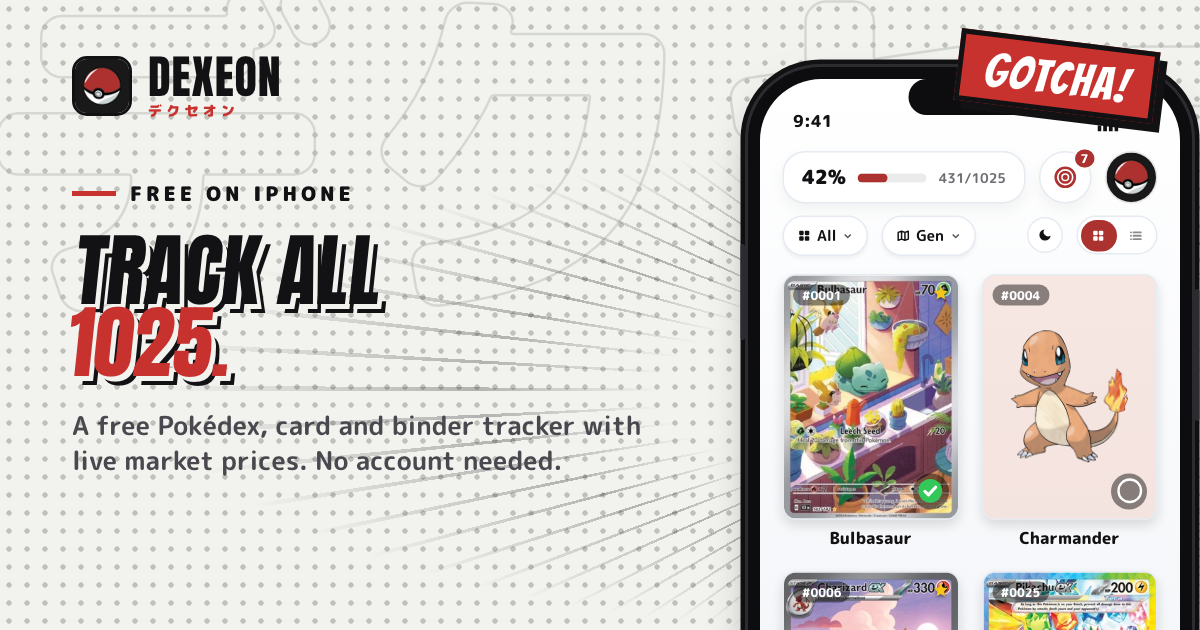
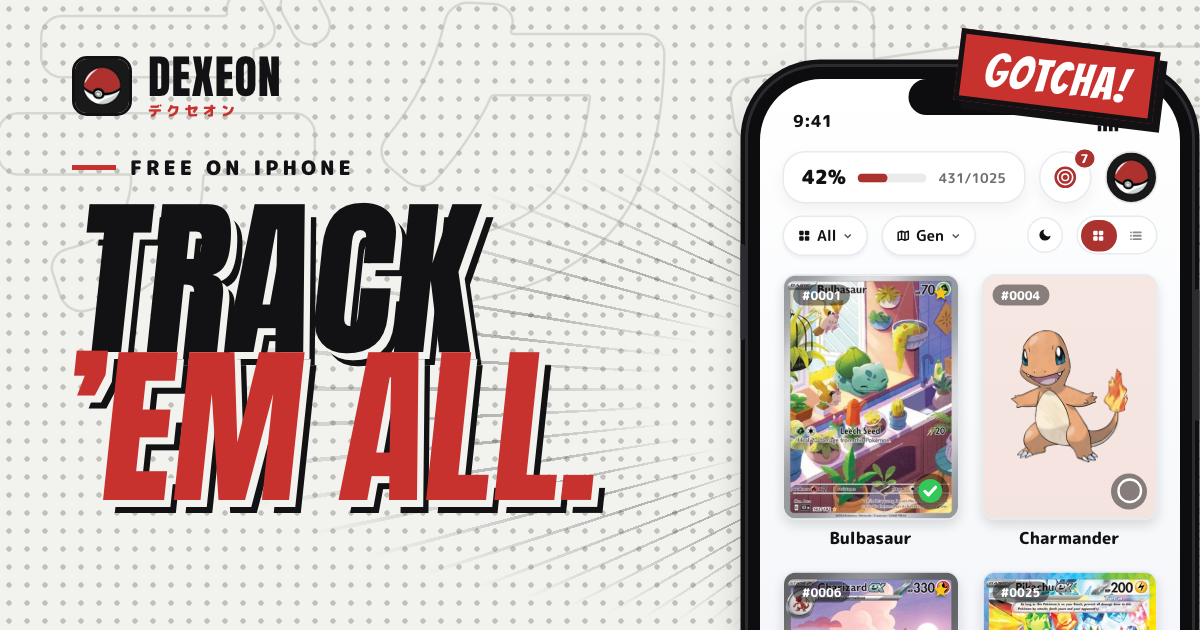
Redesign share image: big "Track 'Em All" headline, no body copy

Changed region(s): [[0.0617, 0.2413, 0.555, 0.8143]]

diff --git a/marketing/og.html b/marketing/og.html
@@ -236,6 +236,34 @@
   .swatch.l{background:#fff; color:#121114} .swatch.d{background:#0B0B0D; color:#F1F0EA}
   .swatch i{width:14px; height:14px; border-radius:50%; display:inline-block; background:currentColor}
 
+  /* ───────────── Japanese sets ───────────── */
+  .jp{padding:clamp(72px,9vw,120px) 0; border-top:3px solid var(--ink); background:var(--paper-2); position:relative; overflow:hidden}
+  .jp .wrap{position:relative; display:grid; grid-template-columns:minmax(0,.95fr) minmax(0,1.05fr); gap:clamp(28px,5vw,72px); align-items:center}
+  .jp .kana-big{font-family:var(--body); font-weight:900; font-size:clamp(44px,5.4vw,82px); line-height:1; white-space:nowrap; color:var(--red); letter-spacing:.04em; margin-top:14px; transform:skewX(-6deg); text-shadow:4px 4px 0 var(--paper-2), 7px 7px 0 var(--ink)}
+  .jp h2{font-size:clamp(40px,5vw,72px); margin-top:8px; transform:skewX(-6deg); text-shadow:3px 3px 0 var(--paper-2), 5px 5px 0 var(--ink)}
+  .jp .lede{margin-top:22px}
+  .jp-list{margin:24px 0 0; padding:0; list-style:none; display:grid; gap:10px}
+  .jp-list li{display:flex; gap:12px; align-items:flex-start; font-weight:700; font-size:15px}
+  .jp-list li::before{content:"JA"; flex:none; font-size:10px; font-weight:900; letter-spacing:.08em; padding:3px 7px; margin-top:3px; background:var(--red); color:#fff; border:2px solid var(--ink)}
+  .fan{position:relative; height:clamp(320px,36vw,460px)}
+  .fan figure{position:absolute; margin:0; width:clamp(140px,16vw,210px); transition:transform .3s ease}
+  .fan figure:hover{z-index:9; transform:translateY(-10px) rotate(0deg) !important}
+  .fan img{width:100%; border-radius:10px; border:3px solid var(--ink); box-shadow:var(--shadow-ink-sm); display:block}
+  .fan .ja{position:absolute; top:-10px; right:-10px; background:var(--red); color:#fff; font-size:11px; font-weight:900; letter-spacing:.08em; padding:4px 8px; border:2px solid var(--ink); box-shadow:2px 2px 0 var(--ink)}
+  .fan .c1{left:0%;  top:14%; transform:rotate(-12deg); z-index:1}
+  .fan .c2{left:17%; top:4%;  transform:rotate(-6deg);  z-index:2}
+  .fan .c3{left:35%; top:0%;  transform:rotate(-1deg);  z-index:3}
+  .fan .c4{left:53%; top:3%;  transform:rotate(5deg);   z-index:4}
+  .fan .c5{left:70%; top:12%; transform:rotate(11deg);  z-index:5}
+  .fan .c6{left:28%; top:36%; transform:rotate(-4deg);  z-index:6}
+  .jp .sfx{position:absolute; right:0; top:-18px; z-index:7; transform:rotate(7deg)}
+  @media (max-width:900px){
+    .jp .wrap{grid-template-columns:1fr}
+    .fan{height:min(72vw,420px); margin-top:20px}
+    .fan figure{width:min(30vw,170px)}
+    .fan .c6{left:34%; top:40%}
+  }
+
   /* ───────────── Binders (night spread) ───────────── */
   .night{
     background:var(--ink); color:var(--paper); position:relative;
@@ -508,14 +536,13 @@ html,body{width:1200px;height:630px}
 .brand img{width:60px;height:60px;border-radius:15px;border:3px solid var(--ink)}
 .brand b{font-family:var(--display);font-weight:400;font-size:46px;letter-spacing:.02em;line-height:1;display:block}
 .brand small{display:block;font-size:14px;font-weight:900;letter-spacing:.3em;color:var(--red);line-height:1;margin-top:4px}
-.head{left:72px;top:176px;width:680px;text-align:left}
+.head{left:72px;top:150px;width:680px;text-align:left}
 .head .eyebrow{font-size:20px;letter-spacing:.2em;gap:14px} .head .eyebrow::before{width:44px;height:5px}
-.head h1{font-size:80px;margin-top:24px;text-shadow:5px 5px 0 var(--paper),9px 9px 0 var(--ink)}
-.head p{font-size:26px;line-height:1.35;margin:30px 0 0;max-width:600px}
+.head h1{font-size:172px;margin-top:22px;line-height:.86;text-shadow:7px 7px 0 var(--paper),13px 13px 0 var(--ink)}
 .stage{left:745px;top:64px;transform:scale(1.5);transform-origin:top left}
 .speed{--cx:83%;--cy:62%;opacity:.28}
 .sfx{font-size:46px;padding:10px 22px 6px;border-width:5px;box-shadow:8px 8px 0 var(--ink)}
-</style></head><body><div class="shot"><div class="halft"></div><div class="kana-bg" aria-hidden="true">デクセオン</div><div class="brand"><img src="../assets/icon.png" alt=""><span><b>DEXEON</b><small>デクセオン</small></span></div><div class="head"><span class="eyebrow">Free on iPhone</span><h1>Track all<br><span class="red">1025.</span></h1><p>A free Pokédex, card and binder tracker with live market prices. No account needed.</p></div><div class="speed"></div><span class="sfx" style="right:44px;top:40px;transform:rotate(7deg)">GOTCHA!</span><div class="stage"><div class="phone" role="img" aria-label="Dexeon home screen showing collection progress, filters and a grid of Pokémon tiles with showcase cards">
+</style></head><body><div class="shot"><div class="halft"></div><div class="kana-bg" aria-hidden="true">デクセオン</div><div class="brand"><img src="../assets/icon.png" alt=""><span><b>DEXEON</b><small>デクセオン</small></span></div><div class="head"><span class="eyebrow">Free on iPhone</span><h1>Track<br><span class="red">’Em All.</span></h1></div><div class="speed"></div><span class="sfx" style="right:44px;top:40px;transform:rotate(7deg)">GOTCHA!</span><div class="stage"><div class="phone" role="img" aria-label="Dexeon home screen showing collection progress, filters and a grid of Pokémon tiles with showcase cards">
         <div class="island"></div>
         <div class="screen">
           <div class="status"><span>9:41</span><span class="r">

diff --git a/marketing/ipad-13-screen-1-pokedex.html b/marketing/ipad-13-screen-1-pokedex.html
@@ -236,6 +236,34 @@
   .swatch.l{background:#fff; color:#121114} .swatch.d{background:#0B0B0D; color:#F1F0EA}
   .swatch i{width:14px; height:14px; border-radius:50%; display:inline-block; background:currentColor}
 
+  /* ───────────── Japanese sets ───────────── */
+  .jp{padding:clamp(72px,9vw,120px) 0; border-top:3px solid var(--ink); background:var(--paper-2); position:relative; overflow:hidden}
+  .jp .wrap{position:relative; display:grid; grid-template-columns:minmax(0,.95fr) minmax(0,1.05fr); gap:clamp(28px,5vw,72px); align-items:center}
+  .jp .kana-big{font-family:var(--body); font-weight:900; font-size:clamp(44px,5.4vw,82px); line-height:1; white-space:nowrap; color:var(--red); letter-spacing:.04em; margin-top:14px; transform:skewX(-6deg); text-shadow:4px 4px 0 var(--paper-2), 7px 7px 0 var(--ink)}
+  .jp h2{font-size:clamp(40px,5vw,72px); margin-top:8px; transform:skewX(-6deg); text-shadow:3px 3px 0 var(--paper-2), 5px 5px 0 var(--ink)}
+  .jp .lede{margin-top:22px}
+  .jp-list{margin:24px 0 0; padding:0; list-style:none; display:grid; gap:10px}
+  .jp-list li{display:flex; gap:12px; align-items:flex-start; font-weight:700; font-size:15px}
+  .jp-list li::before{content:"JA"; flex:none; font-size:10px; font-weight:900; letter-spacing:.08em; padding:3px 7px; margin-top:3px; background:var(--red); color:#fff; border:2px solid var(--ink)}
+  .fan{position:relative; height:clamp(320px,36vw,460px)}
+  .fan figure{position:absolute; margin:0; width:clamp(140px,16vw,210px); transition:transform .3s ease}
+  .fan figure:hover{z-index:9; transform:translateY(-10px) rotate(0deg) !important}
+  .fan img{width:100%; border-radius:10px; border:3px solid var(--ink); box-shadow:var(--shadow-ink-sm); display:block}
+  .fan .ja{position:absolute; top:-10px; right:-10px; background:var(--red); color:#fff; font-size:11px; font-weight:900; letter-spacing:.08em; padding:4px 8px; border:2px solid var(--ink); box-shadow:2px 2px 0 var(--ink)}
+  .fan .c1{left:0%;  top:14%; transform:rotate(-12deg); z-index:1}
+  .fan .c2{left:17%; top:4%;  transform:rotate(-6deg);  z-index:2}
+  .fan .c3{left:35%; top:0%;  transform:rotate(-1deg);  z-index:3}
+  .fan .c4{left:53%; top:3%;  transform:rotate(5deg);   z-index:4}
+  .fan .c5{left:70%; top:12%; transform:rotate(11deg);  z-index:5}
+  .fan .c6{left:28%; top:36%; transform:rotate(-4deg);  z-index:6}
+  .jp .sfx{position:absolute; right:0; top:-18px; z-index:7; transform:rotate(7deg)}
+  @media (max-width:900px){
+    .jp .wrap{grid-template-columns:1fr}
+    .fan{height:min(72vw,420px); margin-top:20px}
+    .fan figure{width:min(30vw,170px)}
+    .fan .c6{left:34%; top:40%}
+  }
+
   /* ───────────── Binders (night spread) ───────────── */
   .night{
     background:var(--ink); color:var(--paper); position:relative;

diff --git a/marketing/ipad-13-screen-2-cards.html b/marketing/ipad-13-screen-2-cards.html
@@ -236,6 +236,34 @@
   .swatch.l{background:#fff; color:#121114} .swatch.d{background:#0B0B0D; color:#F1F0EA}
   .swatch i{width:14px; height:14px; border-radius:50%; display:inline-block; background:currentColor}
 
+  /* ───────────── Japanese sets ───────────── */
+  .jp{padding:clamp(72px,9vw,120px) 0; border-top:3px solid var(--ink); background:var(--paper-2); position:relative; overflow:hidden}
+  .jp .wrap{position:relative; display:grid; grid-template-columns:minmax(0,.95fr) minmax(0,1.05fr); gap:clamp(28px,5vw,72px); align-items:center}
+  .jp .kana-big{font-family:var(--body); font-weight:900; font-size:clamp(44px,5.4vw,82px); line-height:1; white-space:nowrap; color:var(--red); letter-spacing:.04em; margin-top:14px; transform:skewX(-6deg); text-shadow:4px 4px 0 var(--paper-2), 7px 7px 0 var(--ink)}
+  .jp h2{font-size:clamp(40px,5vw,72px); margin-top:8px; transform:skewX(-6deg); text-shadow:3px 3px 0 var(--paper-2), 5px 5px 0 var(--ink)}
+  .jp .lede{margin-top:22px}
+  .jp-list{margin:24px 0 0; padding:0; list-style:none; display:grid; gap:10px}
+  .jp-list li{display:flex; gap:12px; align-items:flex-start; font-weight:700; font-size:15px}
+  .jp-list li::before{content:"JA"; flex:none; font-size:10px; font-weight:900; letter-spacing:.08em; padding:3px 7px; margin-top:3px; background:var(--red); color:#fff; border:2px solid var(--ink)}
+  .fan{position:relative; height:clamp(320px,36vw,460px)}
+  .fan figure{position:absolute; margin:0; width:clamp(140px,16vw,210px); transition:transform .3s ease}
+  .fan figure:hover{z-index:9; transform:translateY(-10px) rotate(0deg) !important}
+  .fan img{width:100%; border-radius:10px; border:3px solid var(--ink); box-shadow:var(--shadow-ink-sm); display:block}
+  .fan .ja{position:absolute; top:-10px; right:-10px; background:var(--red); color:#fff; font-size:11px; font-weight:900; letter-spacing:.08em; padding:4px 8px; border:2px solid var(--ink); box-shadow:2px 2px 0 var(--ink)}
+  .fan .c1{left:0%;  top:14%; transform:rotate(-12deg); z-index:1}
+  .fan .c2{left:17%; top:4%;  transform:rotate(-6deg);  z-index:2}
+  .fan .c3{left:35%; top:0%;  transform:rotate(-1deg);  z-index:3}
+  .fan .c4{left:53%; top:3%;  transform:rotate(5deg);   z-index:4}
+  .fan .c5{left:70%; top:12%; transform:rotate(11deg);  z-index:5}
+  .fan .c6{left:28%; top:36%; transform:rotate(-4deg);  z-index:6}
+  .jp .sfx{position:absolute; right:0; top:-18px; z-index:7; transform:rotate(7deg)}
+  @media (max-width:900px){
+    .jp .wrap{grid-template-columns:1fr}
+    .fan{height:min(72vw,420px); margin-top:20px}
+    .fan figure{width:min(30vw,170px)}
+    .fan .c6{left:34%; top:40%}
+  }
+
   /* ───────────── Binders (night spread) ───────────── */
   .night{
     background:var(--ink); color:var(--paper); position:relative;

diff --git a/marketing/ipad-13-screen-3-binders.html b/marketing/ipad-13-screen-3-binders.html
@@ -236,6 +236,34 @@
   .swatch.l{background:#fff; color:#121114} .swatch.d{background:#0B0B0D; color:#F1F0EA}
   .swatch i{width:14px; height:14px; border-radius:50%; display:inline-block; background:currentColor}
 
+  /* ───────────── Japanese sets ───────────── */
+  .jp{padding:clamp(72px,9vw,120px) 0; border-top:3px solid var(--ink); background:var(--paper-2); position:relative; overflow:hidden}
+  .jp .wrap{position:relative; display:grid; grid-template-columns:minmax(0,.95fr) minmax(0,1.05fr); gap:clamp(28px,5vw,72px); align-items:center}
+  .jp .kana-big{font-family:var(--body); font-weight:900; font-size:clamp(44px,5.4vw,82px); line-height:1; white-space:nowrap; color:var(--red); letter-spacing:.04em; margin-top:14px; transform:skewX(-6deg); text-shadow:4px 4px 0 var(--paper-2), 7px 7px 0 var(--ink)}
+  .jp h2{font-size:clamp(40px,5vw,72px); margin-top:8px; transform:skewX(-6deg); text-shadow:3px 3px 0 var(--paper-2), 5px 5px 0 var(--ink)}
+  .jp .lede{margin-top:22px}
+  .jp-list{margin:24px 0 0; padding:0; list-style:none; display:grid; gap:10px}
+  .jp-list li{display:flex; gap:12px; align-items:flex-start; font-weight:700; font-size:15px}
+  .jp-list li::before{content:"JA"; flex:none; font-size:10px; font-weight:900; letter-spacing:.08em; padding:3px 7px; margin-top:3px; background:var(--red); color:#fff; border:2px solid var(--ink)}
+  .fan{position:relative; height:clamp(320px,36vw,460px)}
+  .fan figure{position:absolute; margin:0; width:clamp(140px,16vw,210px); transition:transform .3s ease}
+  .fan figure:hover{z-index:9; transform:translateY(-10px) rotate(0deg) !important}
+  .fan img{width:100%; border-radius:10px; border:3px solid var(--ink); box-shadow:var(--shadow-ink-sm); display:block}
+  .fan .ja{position:absolute; top:-10px; right:-10px; background:var(--red); color:#fff; font-size:11px; font-weight:900; letter-spacing:.08em; padding:4px 8px; border:2px solid var(--ink); box-shadow:2px 2px 0 var(--ink)}
+  .fan .c1{left:0%;  top:14%; transform:rotate(-12deg); z-index:1}
+  .fan .c2{left:17%; top:4%;  transform:rotate(-6deg);  z-index:2}
+  .fan .c3{left:35%; top:0%;  transform:rotate(-1deg);  z-index:3}
+  .fan .c4{left:53%; top:3%;  transform:rotate(5deg);   z-index:4}
+  .fan .c5{left:70%; top:12%; transform:rotate(11deg);  z-index:5}
+  .fan .c6{left:28%; top:36%; transform:rotate(-4deg);  z-index:6}
+  .jp .sfx{position:absolute; right:0; top:-18px; z-index:7; transform:rotate(7deg)}
+  @media (max-width:900px){
+    .jp .wrap{grid-template-columns:1fr}
+    .fan{height:min(72vw,420px); margin-top:20px}
+    .fan figure{width:min(30vw,170px)}
+    .fan .c6{left:34%; top:40%}
+  }
+
   /* ───────────── Binders (night spread) ───────────── */
   .night{
     background:var(--ink); color:var(--paper); position:relative;

diff --git a/marketing/iphone-6.5-screen-1-pokedex.html b/marketing/iphone-6.5-screen-1-pokedex.html
@@ -236,6 +236,34 @@
   .swatch.l{background:#fff; color:#121114} .swatch.d{background:#0B0B0D; color:#F1F0EA}
   .swatch i{width:14px; height:14px; border-radius:50%; display:inline-block; background:currentColor}
 
+  /* ───────────── Japanese sets ───────────── */
+  .jp{padding:clamp(72px,9vw,120px) 0; border-top:3px solid var(--ink); background:var(--paper-2); position:relative; overflow:hidden}
+  .jp .wrap{position:relative; display:grid; grid-template-columns:minmax(0,.95fr) minmax(0,1.05fr); gap:clamp(28px,5vw,72px); align-items:center}
+  .jp .kana-big{font-family:var(--body); font-weight:900; font-size:clamp(44px,5.4vw,82px); line-height:1; white-space:nowrap; color:var(--red); letter-spacing:.04em; margin-top:14px; transform:skewX(-6deg); text-shadow:4px 4px 0 var(--paper-2), 7px 7px 0 var(--ink)}
+  .jp h2{font-size:clamp(40px,5vw,72px); margin-top:8px; transform:skewX(-6deg); text-shadow:3px 3px 0 var(--paper-2), 5px 5px 0 var(--ink)}
+  .jp .lede{margin-top:22px}
+  .jp-list{margin:24px 0 0; padding:0; list-style:none; display:grid; gap:10px}
+  .jp-list li{display:flex; gap:12px; align-items:flex-start; font-weight:700; font-size:15px}
+  .jp-list li::before{content:"JA"; flex:none; font-size:10px; font-weight:900; letter-spacing:.08em; padding:3px 7px; margin-top:3px; background:var(--red); color:#fff; border:2px solid var(--ink)}
+  .fan{position:relative; height:clamp(320px,36vw,460px)}
+  .fan figure{position:absolute; margin:0; width:clamp(140px,16vw,210px); transition:transform .3s ease}
+  .fan figure:hover{z-index:9; transform:translateY(-10px) rotate(0deg) !important}
+  .fan img{width:100%; border-radius:10px; border:3px solid var(--ink); box-shadow:var(--shadow-ink-sm); display:block}
+  .fan .ja{position:absolute; top:-10px; right:-10px; background:var(--red); color:#fff; font-size:11px; font-weight:900; letter-spacing:.08em; padding:4px 8px; border:2px solid var(--ink); box-shadow:2px 2px 0 var(--ink)}
+  .fan .c1{left:0%;  top:14%; transform:rotate(-12deg); z-index:1}
+  .fan .c2{left:17%; top:4%;  transform:rotate(-6deg);  z-index:2}
+  .fan .c3{left:35%; top:0%;  transform:rotate(-1deg);  z-index:3}
+  .fan .c4{left:53%; top:3%;  transform:rotate(5deg);   z-index:4}
+  .fan .c5{left:70%; top:12%; transform:rotate(11deg);  z-index:5}
+  .fan .c6{left:28%; top:36%; transform:rotate(-4deg);  z-index:6}
+  .jp .sfx{position:absolute; right:0; top:-18px; z-index:7; transform:rotate(7deg)}
+  @media (max-width:900px){
+    .jp .wrap{grid-template-columns:1fr}
+    .fan{height:min(72vw,420px); margin-top:20px}
+    .fan figure{width:min(30vw,170px)}
+    .fan .c6{left:34%; top:40%}
+  }
+
   /* ───────────── Binders (night spread) ───────────── */
   .night{
     background:var(--ink); color:var(--paper); position:relative;

diff --git a/marketing/iphone-6.5-screen-2-cards.html b/marketing/iphone-6.5-screen-2-cards.html
@@ -236,6 +236,34 @@
   .swatch.l{background:#fff; color:#121114} .swatch.d{background:#0B0B0D; color:#F1F0EA}
   .swatch i{width:14px; height:14px; border-radius:50%; display:inline-block; background:currentColor}
 
+  /* ───────────── Japanese sets ───────────── */
+  .jp{padding:clamp(72px,9vw,120px) 0; border-top:3px solid var(--ink); background:var(--paper-2); position:relative; overflow:hidden}
+  .jp .wrap{position:relative; display:grid; grid-template-columns:minmax(0,.95fr) minmax(0,1.05fr); gap:clamp(28px,5vw,72px); align-items:center}
+  .jp .kana-big{font-family:var(--body); font-weight:900; font-size:clamp(44px,5.4vw,82px); line-height:1; white-space:nowrap; color:var(--red); letter-spacing:.04em; margin-top:14px; transform:skewX(-6deg); text-shadow:4px 4px 0 var(--paper-2), 7px 7px 0 var(--ink)}
+  .jp h2{font-size:clamp(40px,5vw,72px); margin-top:8px; transform:skewX(-6deg); text-shadow:3px 3px 0 var(--paper-2), 5px 5px 0 var(--ink)}
+  .jp .lede{margin-top:22px}
+  .jp-list{margin:24px 0 0; padding:0; list-style:none; display:grid; gap:10px}
+  .jp-list li{display:flex; gap:12px; align-items:flex-start; font-weight:700; font-size:15px}
+  .jp-list li::before{content:"JA"; flex:none; font-size:10px; font-weight:900; letter-spacing:.08em; padding:3px 7px; margin-top:3px; background:var(--red); color:#fff; border:2px solid var(--ink)}
+  .fan{position:relative; height:clamp(320px,36vw,460px)}
+  .fan figure{position:absolute; margin:0; width:clamp(140px,16vw,210px); transition:transform .3s ease}
+  .fan figure:hover{z-index:9; transform:translateY(-10px) rotate(0deg) !important}
+  .fan img{width:100%; border-radius:10px; border:3px solid var(--ink); box-shadow:var(--shadow-ink-sm); display:block}
+  .fan .ja{position:absolute; top:-10px; right:-10px; background:var(--red); color:#fff; font-size:11px; font-weight:900; letter-spacing:.08em; padding:4px 8px; border:2px solid var(--ink); box-shadow:2px 2px 0 var(--ink)}
+  .fan .c1{left:0%;  top:14%; transform:rotate(-12deg); z-index:1}
+  .fan .c2{left:17%; top:4%;  transform:rotate(-6deg);  z-index:2}
+  .fan .c3{left:35%; top:0%;  transform:rotate(-1deg);  z-index:3}
+  .fan .c4{left:53%; top:3%;  transform:rotate(5deg);   z-index:4}
+  .fan .c5{left:70%; top:12%; transform:rotate(11deg);  z-index:5}
+  .fan .c6{left:28%; top:36%; transform:rotate(-4deg);  z-index:6}
+  .jp .sfx{position:absolute; right:0; top:-18px; z-index:7; transform:rotate(7deg)}
+  @media (max-width:900px){
+    .jp .wrap{grid-template-columns:1fr}
+    .fan{height:min(72vw,420px); margin-top:20px}
+    .fan figure{width:min(30vw,170px)}
+    .fan .c6{left:34%; top:40%}
+  }
+
   /* ───────────── Binders (night spread) ───────────── */
   .night{
     background:var(--ink); color:var(--paper); position:relative;

diff --git a/marketing/iphone-6.5-screen-3-binders.html b/marketing/iphone-6.5-screen-3-binders.html
@@ -236,6 +236,34 @@
   .swatch.l{background:#fff; color:#121114} .swatch.d{background:#0B0B0D; color:#F1F0EA}
   .swatch i{width:14px; height:14px; border-radius:50%; display:inline-block; background:currentColor}
 
+  /* ───────────── Japanese sets ───────────── */
+  .jp{padding:clamp(72px,9vw,120px) 0; border-top:3px solid var(--ink); background:var(--paper-2); position:relative; overflow:hidden}
+  .jp .wrap{position:relative; display:grid; grid-template-columns:minmax(0,.95fr) minmax(0,1.05fr); gap:clamp(28px,5vw,72px); align-items:center}
+  .jp .kana-big{font-family:var(--body); font-weight:900; font-size:clamp(44px,5.4vw,82px); line-height:1; white-space:nowrap; color:var(--red); letter-spacing:.04em; margin-top:14px; transform:skewX(-6deg); text-shadow:4px 4px 0 var(--paper-2), 7px 7px 0 var(--ink)}
+  .jp h2{font-size:clamp(40px,5vw,72px); margin-top:8px; transform:skewX(-6deg); text-shadow:3px 3px 0 var(--paper-2), 5px 5px 0 var(--ink)}
+  .jp .lede{margin-top:22px}
+  .jp-list{margin:24px 0 0; padding:0; list-style:none; display:grid; gap:10px}
+  .jp-list li{display:flex; gap:12px; align-items:flex-start; font-weight:700; font-size:15px}
+  .jp-list li::before{content:"JA"; flex:none; font-size:10px; font-weight:900; letter-spacing:.08em; padding:3px 7px; margin-top:3px; background:var(--red); color:#fff; border:2px solid var(--ink)}
+  .fan{position:relative; height:clamp(320px,36vw,460px)}
+  .fan figure{position:absolute; margin:0; width:clamp(140px,16vw,210px); transition:transform .3s ease}
+  .fan figure:hover{z-index:9; transform:translateY(-10px) rotate(0deg) !important}
+  .fan img{width:100%; border-radius:10px; border:3px solid var(--ink); box-shadow:var(--shadow-ink-sm); display:block}
+  .fan .ja{position:absolute; top:-10px; right:-10px; background:var(--red); color:#fff; font-size:11px; font-weight:900; letter-spacing:.08em; padding:4px 8px; border:2px solid var(--ink); box-shadow:2px 2px 0 var(--ink)}
+  .fan .c1{left:0%;  top:14%; transform:rotate(-12deg); z-index:1}
+  .fan .c2{left:17%; top:4%;  transform:rotate(-6deg);  z-index:2}
+  .fan .c3{left:35%; top:0%;  transform:rotate(-1deg);  z-index:3}
+  .fan .c4{left:53%; top:3%;  transform:rotate(5deg);   z-index:4}
+  .fan .c5{left:70%; top:12%; transform:rotate(11deg);  z-index:5}
+  .fan .c6{left:28%; top:36%; transform:rotate(-4deg);  z-index:6}
+  .jp .sfx{position:absolute; right:0; top:-18px; z-index:7; transform:rotate(7deg)}
+  @media (max-width:900px){
+    .jp .wrap{grid-template-columns:1fr}
+    .fan{height:min(72vw,420px); margin-top:20px}
+    .fan figure{width:min(30vw,170px)}
+    .fan .c6{left:34%; top:40%}
+  }
+
   /* ───────────── Binders (night spread) ───────────── */
   .night{
     background:var(--ink); color:var(--paper); position:relative;

diff --git a/marketing/build.py b/marketing/build.py
@@ -212,10 +212,9 @@ html,body{width:1200px;height:630px}
 .brand img{width:60px;height:60px;border-radius:15px;border:3px solid var(--ink)}
 .brand b{font-family:var(--display);font-weight:400;font-size:46px;letter-spacing:.02em;line-height:1;display:block}
 .brand small{display:block;font-size:14px;font-weight:900;letter-spacing:.3em;color:var(--red);line-height:1;margin-top:4px}
-.head{left:72px;top:176px;width:680px;text-align:left}
+.head{left:72px;top:150px;width:680px;text-align:left}
 .head .eyebrow{font-size:20px;letter-spacing:.2em;gap:14px} .head .eyebrow::before{width:44px;height:5px}
-.head h1{font-size:80px;margin-top:24px;text-shadow:5px 5px 0 var(--paper),9px 9px 0 var(--ink)}
-.head p{font-size:26px;line-height:1.35;margin:30px 0 0;max-width:600px}
+.head h1{font-size:172px;margin-top:22px;line-height:.86;text-shadow:7px 7px 0 var(--paper),13px 13px 0 var(--ink)}
 .stage{left:745px;top:64px;transform:scale(1.5);transform-origin:top left}
 .speed{--cx:83%;--cy:62%;opacity:.28}
 .sfx{font-size:46px;padding:10px 22px 6px;border-width:5px;box-shadow:8px 8px 0 var(--ink)}
@@ -224,8 +223,7 @@ og_body = (
     '<div class="shot"><div class="halft"></div><div class="kana-bg" aria-hidden="true">デクセオン</div>'
     '<div class="brand"><img src="../assets/icon.png" alt=""><span><b>DEXEON</b><small>デクセオン</small></span></div>'
     '<div class="head"><span class="eyebrow">Free on iPhone</span>'
-    '<h1>Track all<br><span class="red">1025.</span></h1>'
-    '<p>A free Pokédex, card and binder tracker with live market prices. No account needed.</p></div>'
+    '<h1>Track<br><span class="red">\u2019Em All.</span></h1></div>'
     '<div class="speed"></div>'
     '<span class="sfx" style="right:44px;top:40px;transform:rotate(7deg)">GOTCHA!</span>'
     f'<div class="stage">{home}</div></div>')
